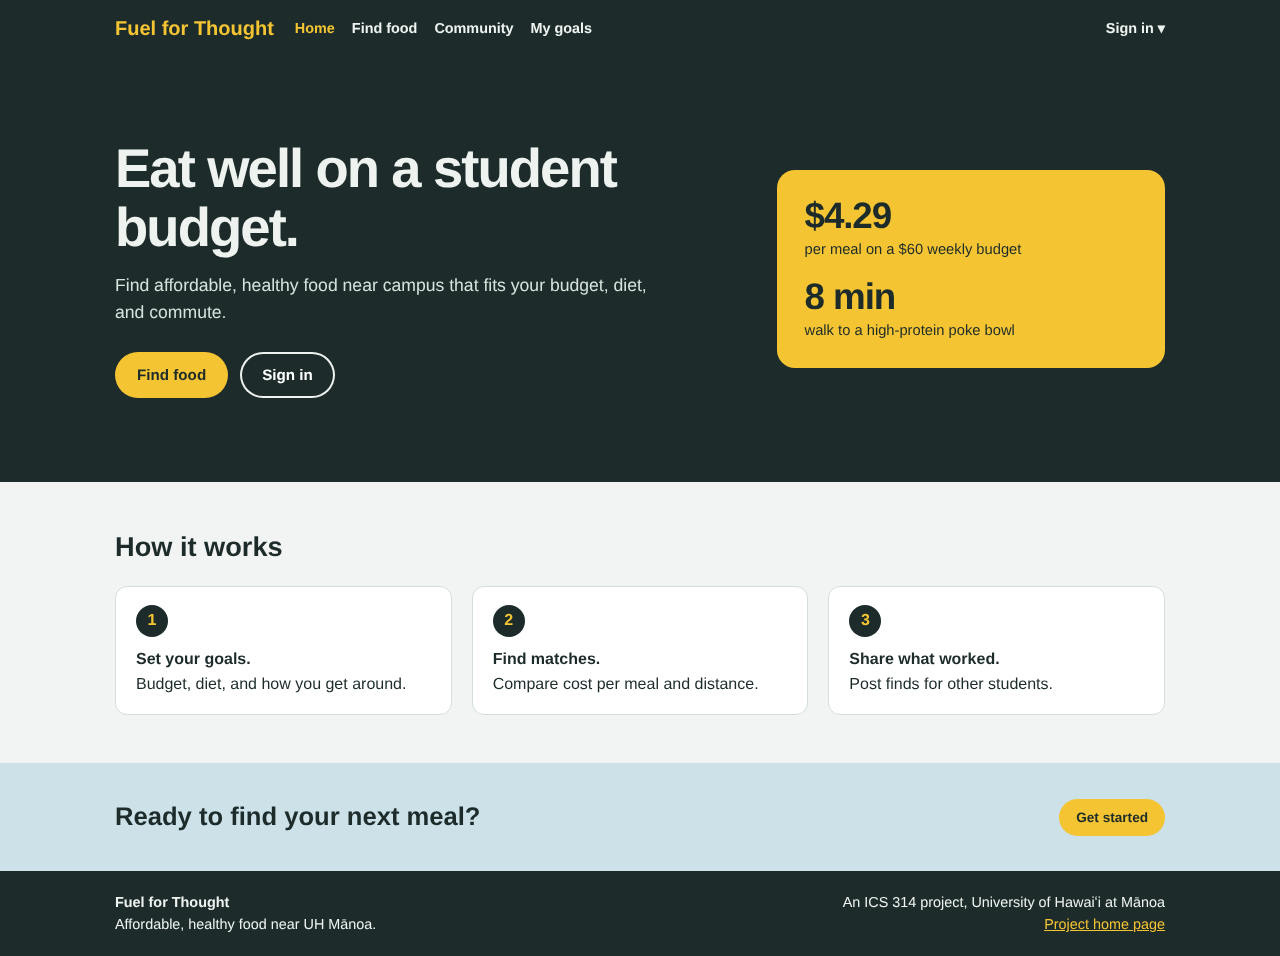
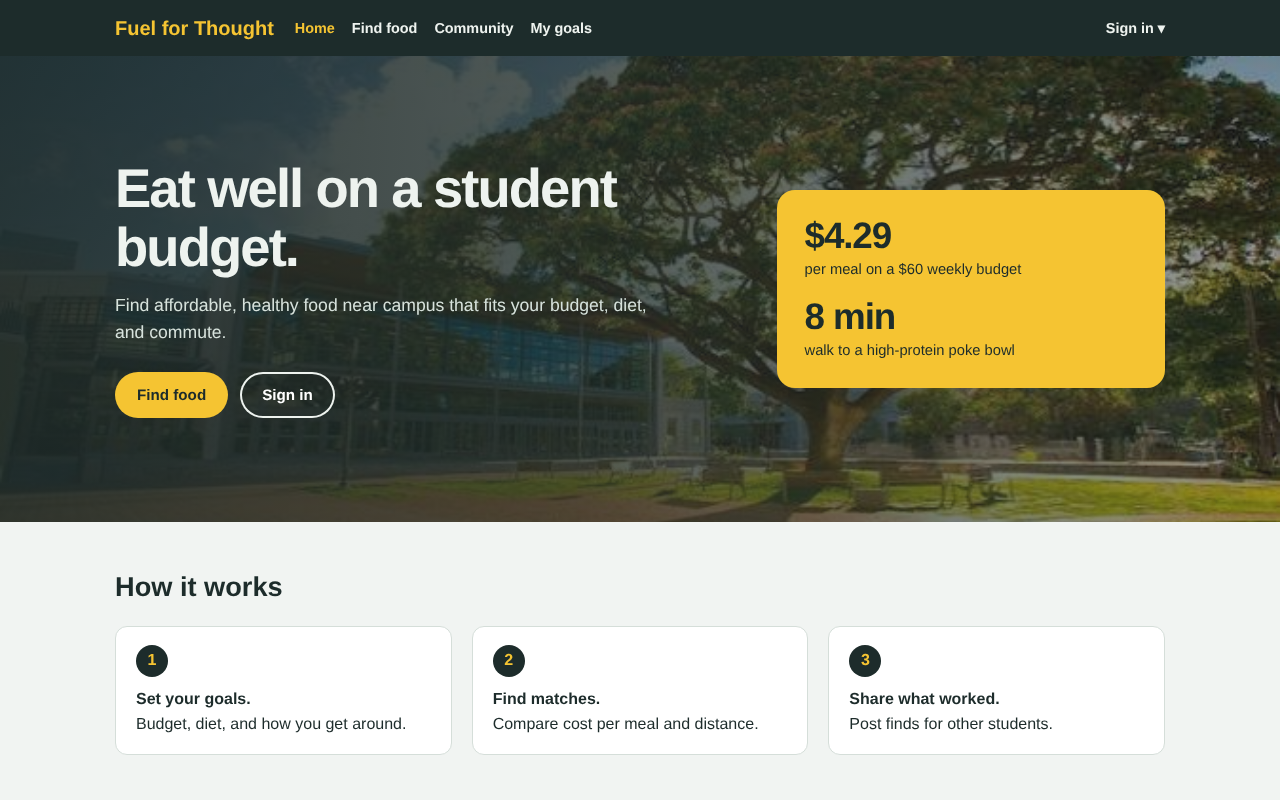
Add UH Manoa campus photo to the landing page hero (#16)
Closes #16

Claude-Session: https://claude.ai/code/session_019fmcU9PesrcdWg1ZzZNApo

diff --git a/public/style.css b/public/style.css
@@ -148,7 +148,7 @@ dd { margin: 0 0 10px; }
 .sign-in-card .guest-link { display: block; border-top: 1px solid var(--line); padding-top: 16px; text-align: center; }
 
 /* Landing page (issue-10) */
-.hero { background: var(--ink); color: #eef3ef; padding: clamp(40px, 8vw, 84px) 0; }
+.hero { background: linear-gradient(90deg, rgba(31, 43, 41, .92) 0%, rgba(31, 43, 41, .78) 45%, rgba(31, 43, 41, .45) 100%), url(/images/campus.jpg) center 35% / cover no-repeat var(--ink); color: #eef3ef; padding: clamp(48px, 9vw, 104px) 0; }
 .hero-inner { display: grid; grid-template-columns: minmax(0, 1.6fr) minmax(0, 1fr); gap: 40px; align-items: center; }
 .hero h1 { margin: 0 0 14px; font-size: clamp(2.2rem, 6vw, 3.4rem); line-height: 1.08; letter-spacing: -.035em; }
 .lead { margin: 0 0 26px; font-size: 1.1rem; max-width: 560px; color: #d7e2dc; }
@@ -171,4 +171,5 @@ dd { margin: 0 0 10px; }
 .cta h2 { margin: 0; font-size: 1.6rem; }
 @media (max-width: 675px) {
   .hero-inner, .steps { grid-template-columns: 1fr; }
+  .hero { background: linear-gradient(rgba(31, 43, 41, .82), rgba(31, 43, 41, .82)), url(/images/campus.jpg) 62% 35% / cover no-repeat var(--ink); }
 }
